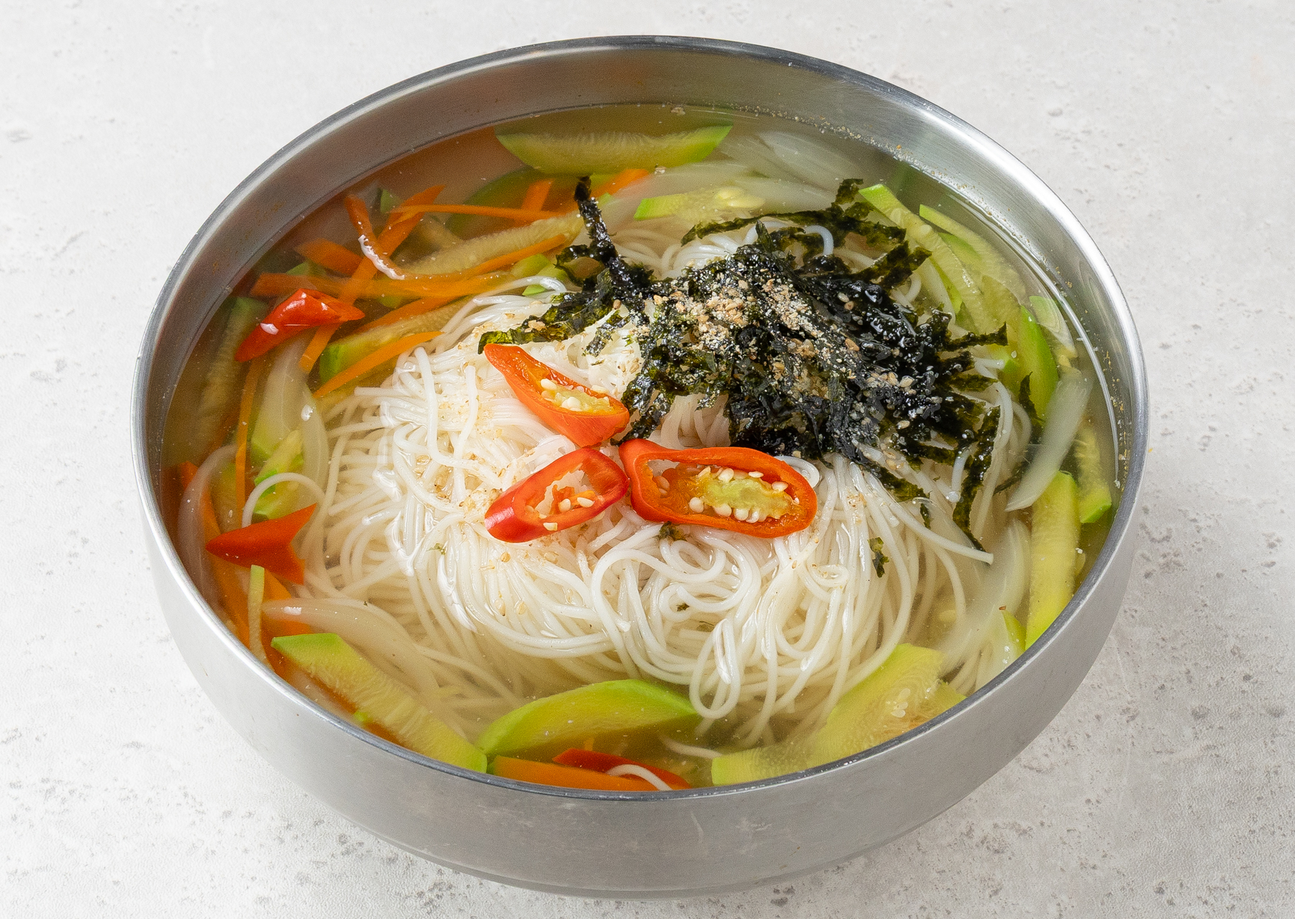
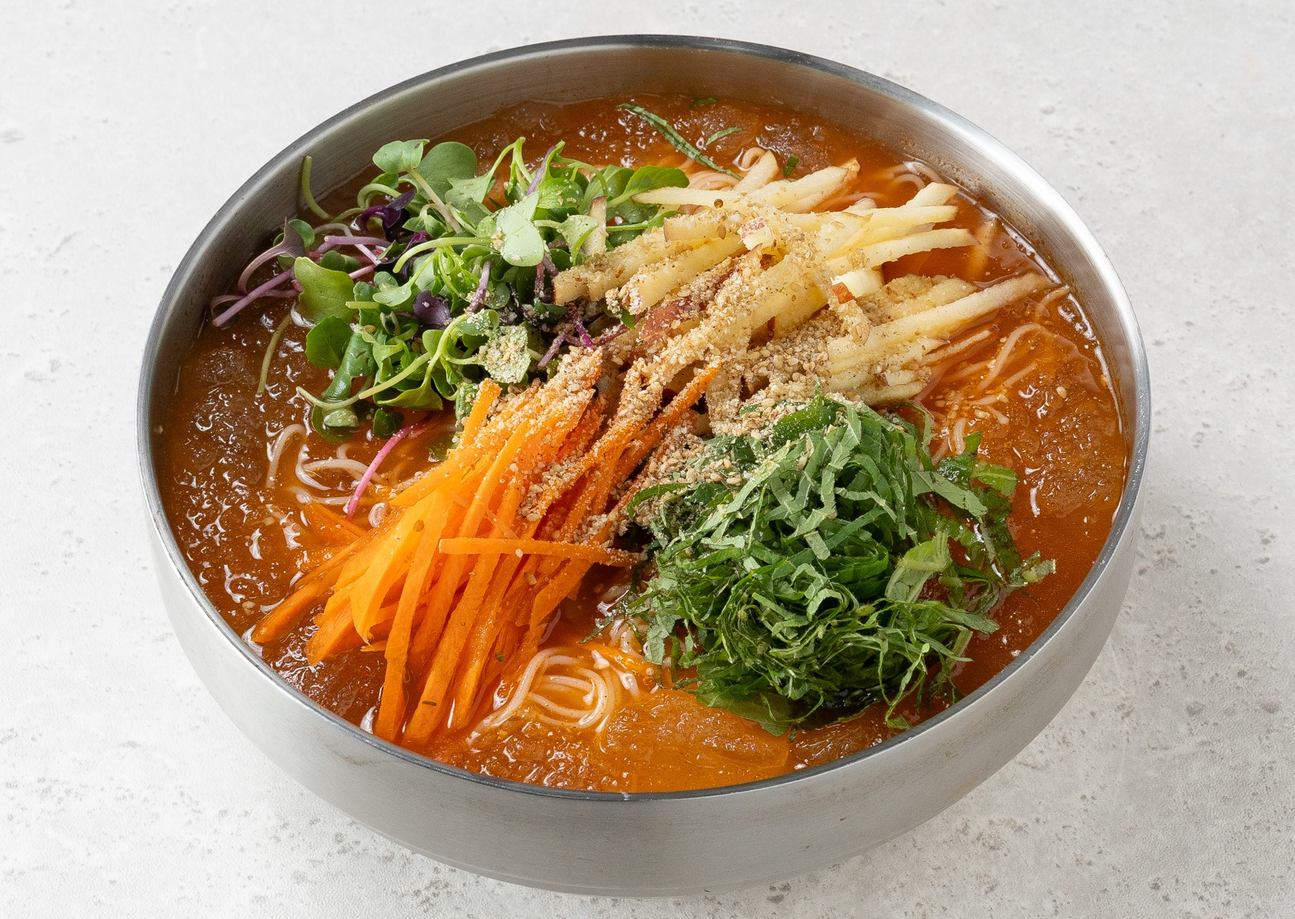
feat: update menu images and adjust noodle price
Replace existing noodle images with new assets and update the price of '온소면' to 6,000 KRW.

diff --git a/src/data/restaurantData.ts b/src/data/restaurantData.ts
@@ -144,7 +144,7 @@ export const MENU_ITEMS: MenuItem[] = [
     id: 'side-warm-noodle',
     name: '온소면',
     category: 'side',
-    price: 5000,
+    price: 6000,
     description: '따끈하고 깊은 멸치 디포리 육수에 쫄깃한 소면을 말아낸 훈훈한 잔치국수 스타일',
     image: '/images/warm_somyeon.jpg',
     pairingNote: '쌀쌀한 밤 포차 감성을 제대로 채워주는 온기 가득 국수',
